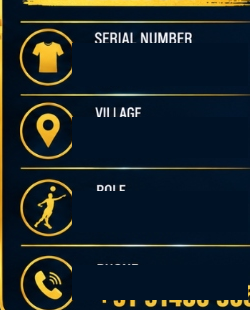
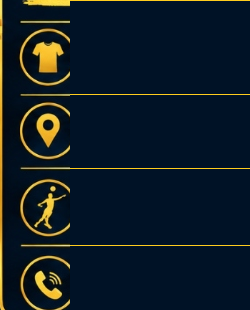
fix(export): resolve duplicate text and label overlap in PowerPoint export

diff --git a/backend/app/services/export_service.py b/backend/app/services/export_service.py
@@ -545,49 +545,40 @@ def generate_players_powerpoint(
         # ── 9. Metadata Section (editable PowerPoint text boxes) ────────────
         meta_x = 580 * _SX       # ≈ 7.552"
         meta_w = 4.2
-        label_h = 0.28
-        value_h = 0.55
+        label_h = 0.25
+        value_h = 0.58
 
-        # Row 1: SERIAL NUMBER
-        row1_label_y = 186 * _SY  # ≈ 2.482"
-        row1_value_y = 202 * _SY  # ≈ 2.696"
+        # Row 1: SERIAL NUMBER (clean vertical stacking, no label/value overlap)
+        row1_label_y = 2.45
+        row1_value_y = 2.72
         _add_text(slide, meta_x, row1_label_y, meta_w, label_h,
                   "SERIAL NUMBER", 13, _WHITE, True, PP_ALIGN.LEFT, "Arial", "Label Serial Number")
         _add_text(slide, meta_x, row1_value_y, meta_w, value_h,
-                  f"#{fmt_serial}", 46, _GOLD, True, PP_ALIGN.LEFT, "Impact", "Serial Number Value")
-
-        # Divider 1
-        _add_rect(slide, meta_x, 254 * _SY, 3.5, 0.025, _GOLD, name="Divider 1")
+                  f"#{fmt_serial}", 44, _GOLD, True, PP_ALIGN.LEFT, "Impact", "Serial Number Value")
 
         # Row 2: VILLAGE
-        row2_label_y = 258 * _SY  # ≈ 3.443"
-        row2_value_y = 274 * _SY  # ≈ 3.657"
+        row2_label_y = 3.44
+        row2_value_y = 3.71
         _add_text(slide, meta_x, row2_label_y, meta_w, label_h,
                   "VILLAGE", 13, _WHITE, True, PP_ALIGN.LEFT, "Arial", "Label Village")
         _add_text(slide, meta_x, row2_value_y, meta_w, value_h,
-                  village, 34, _GOLD, True, PP_ALIGN.LEFT, "Impact", "Village Value")
-
-        # Divider 2
-        _add_rect(slide, meta_x, 328 * _SY, 3.5, 0.025, _GOLD, name="Divider 2")
+                  village, 32, _GOLD, True, PP_ALIGN.LEFT, "Impact", "Village Value")
 
         # Row 3: ROLE
-        row3_label_y = 330 * _SY  # ≈ 4.404"
-        row3_value_y = 346 * _SY  # ≈ 4.617"
+        row3_label_y = 4.42
+        row3_value_y = 4.70
         _add_text(slide, meta_x, row3_label_y, meta_w, label_h,
                   "ROLE", 13, _WHITE, True, PP_ALIGN.LEFT, "Arial", "Label Role")
         _add_text(slide, meta_x, row3_value_y, meta_w, value_h,
-                  role, 34, _GOLD, True, PP_ALIGN.LEFT, "Impact", "Role Value")
-
-        # Divider 3
-        _add_rect(slide, meta_x, 405 * _SY, 3.5, 0.025, _GOLD, name="Divider 3")
+                  role, 32, _GOLD, True, PP_ALIGN.LEFT, "Impact", "Role Value")
 
         # Row 4: PHONE
-        row4_label_y = 404 * _SY  # ≈ 5.391"
-        row4_value_y = 420 * _SY  # ≈ 5.605"
+        row4_label_y = 5.44
+        row4_value_y = 5.72
         _add_text(slide, meta_x, row4_label_y, meta_w, label_h,
                   "PHONE", 13, _WHITE, True, PP_ALIGN.LEFT, "Arial", "Label Phone")
         _add_text(slide, meta_x, row4_value_y, meta_w, value_h,
-                  phone_display, 32, _GOLD, True, PP_ALIGN.LEFT, "Impact", "Phone Value")
+                  phone_display, 30, _GOLD, True, PP_ALIGN.LEFT, "Impact", "Phone Value")
 
         # ── 10. Spiker badge (independent replaceable image) ────────────────
         if spiker_badge_bytes:
